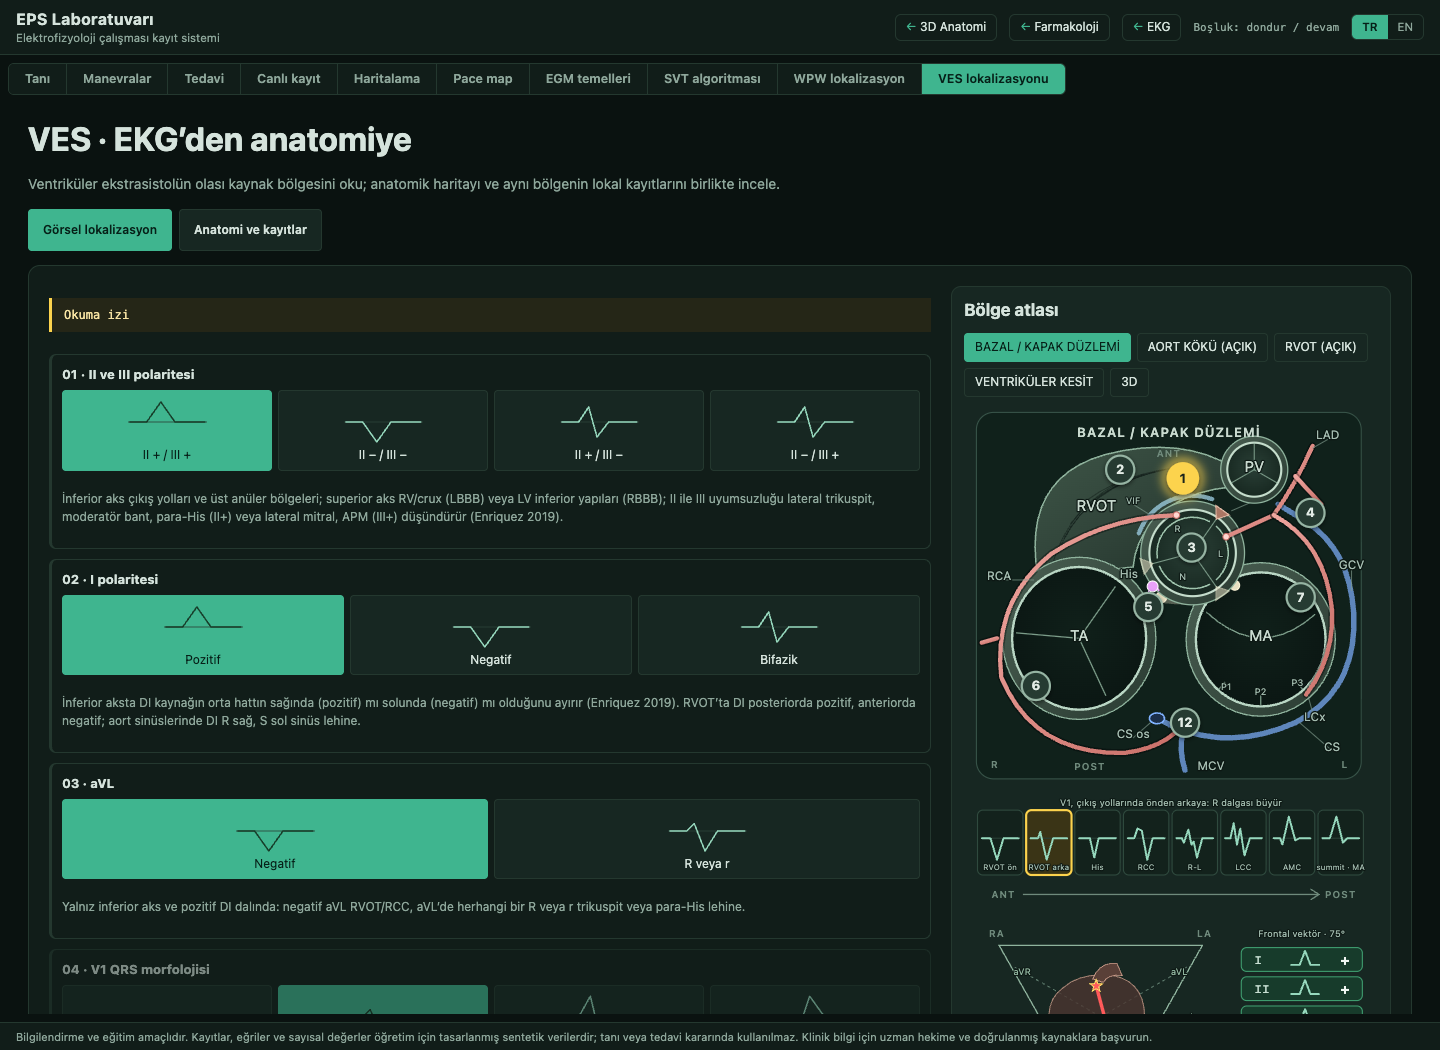
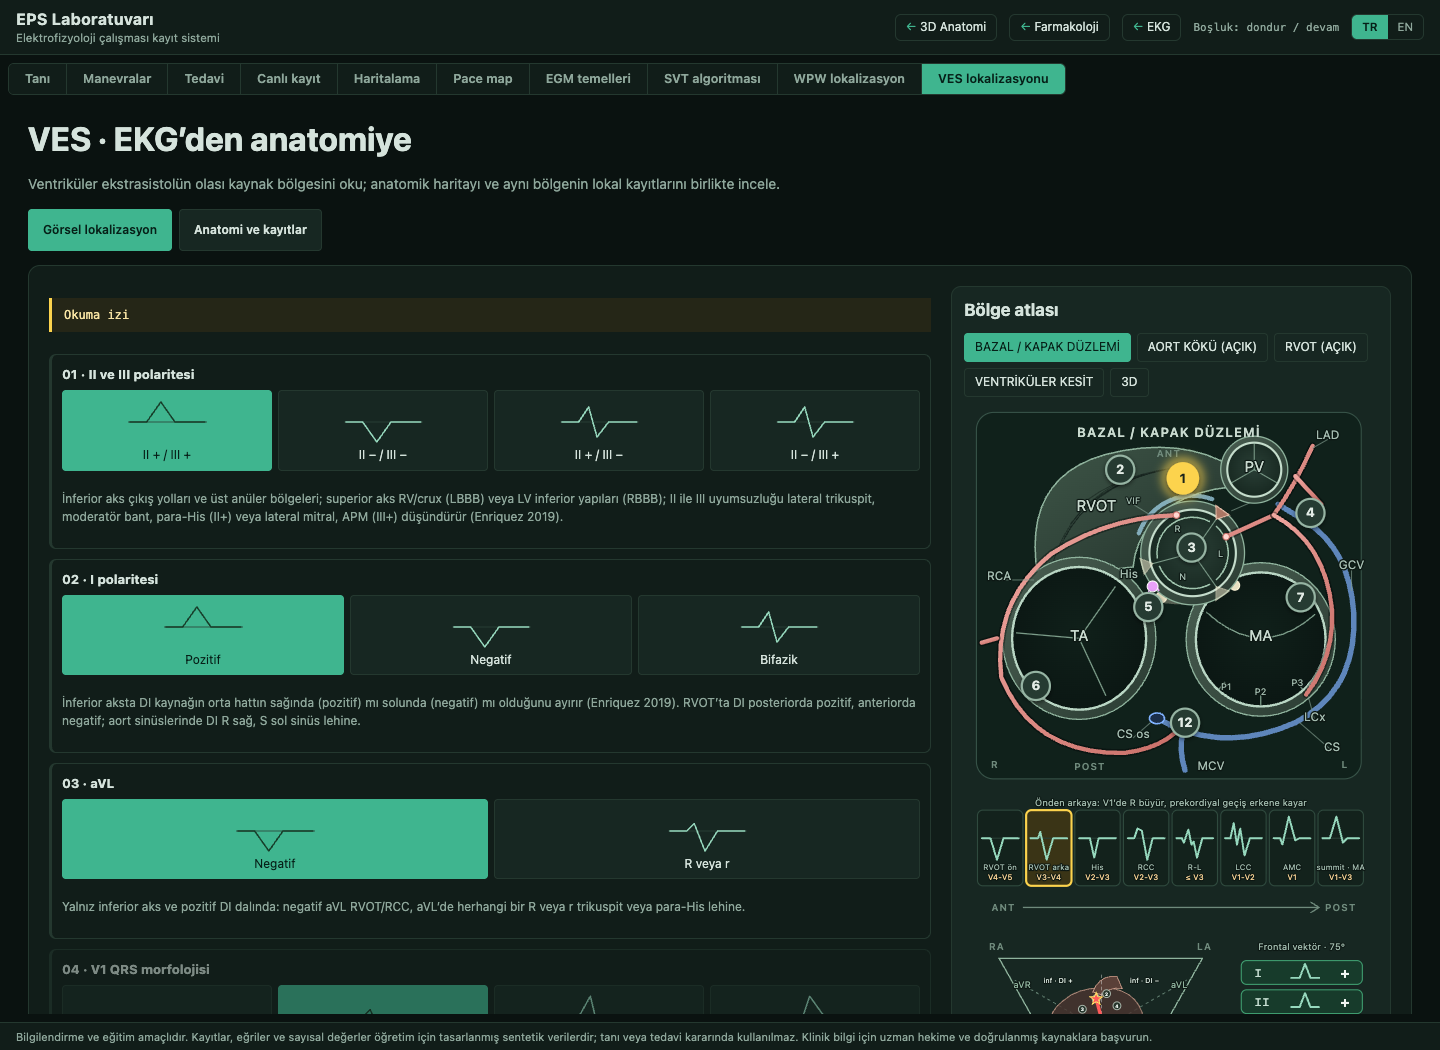
feat(eps): frontal quadrants and transition ranges in the VES atlas
From a user-supplied @ecgrhythms composite built on Enriquez et al.
2019 (tracings and panel annotations not reproduced):

- Frontal vector panel: midline and axis line over the heart with four
  quadrants (inferior axis with lead I positive or negative; superior
  axis with LBBB-like or RBBB-like V1) and all twelve examples as
  numbered dots. Example positions moved where needed so each sits in
  the quadrant of its own axis, lead I and V1 pattern (unit-tested).
- V1 strip: each station shows its precordial transition (RVOT free
  wall V4-V5, septum V3-V4, His V2-V3, RCC V2-V3, R-L V3 or earlier,
  LCC V1-V2, AMC V1, summit/MA V1-V3); title states both gradients.

Changed region(s): [[0.6875, 0.8229, 0.9375, 0.9752], [0.7188, 0.7619, 0.9062, 0.7924]]

diff --git a/src/eps/ves-loc-map.js b/src/eps/ves-loc-map.js
@@ -249,27 +249,28 @@ function rvotView(doc, g, uid, t) {
  * the R wave grows as the origin moves posteriorly and leftward. Stations with a teaching example select it.
  */
 export const V1_GRADIENT = Object.freeze([
-  { key: 'fw', d: 'M2 24 L10 24 L16 44 L22 24 L36 24', sites: ['rvot-free'] },
-  { key: 'ps', d: 'M2 24 L9 24 L11 18 L17 44 L23 24 L36 24', sites: ['rvot-septal'] },
-  { key: 'his', d: 'M2 24 L12 24 L16 42 L20 24 L36 24', sites: ['para-his'] },
-  { key: 'rcc', d: 'M2 24 L8 24 L11 15 L15 17 L20 44 L25 24 L36 24', sites: ['lvot-cusp'] },
-  { key: 'rl', d: 'M2 24 L7 24 L9 28 L13 16 L16 30 L18 27 L21 42 L26 24 L36 24', sites: ['lvot-cusp'] },
-  { key: 'lcc', d: 'M2 24 L7 24 L10 10 L13 30 L16 15 L20 40 L25 24 L36 24', sites: ['lvot-cusp'] },
-  { key: 'amc', d: 'M2 24 L8 24 L10 30 L16 4 L22 26 L26 24 L36 24', sites: [] },
-  { key: 'mitral', d: 'M2 24 L9 24 L15 4 L21 28 L25 24 L36 24', sites: ['lv-summit', 'mitral'] }
+  { key: 'fw', d: 'M2 24 L10 24 L16 44 L22 24 L36 24', transition: 'V4-V5', sites: ['rvot-free'] },
+  { key: 'ps', d: 'M2 24 L9 24 L11 18 L17 44 L23 24 L36 24', transition: 'V3-V4', sites: ['rvot-septal'] },
+  { key: 'his', d: 'M2 24 L12 24 L16 42 L20 24 L36 24', transition: 'V2-V3', sites: ['para-his'] },
+  { key: 'rcc', d: 'M2 24 L8 24 L11 15 L15 17 L20 44 L25 24 L36 24', transition: 'V2-V3', sites: ['lvot-cusp'] },
+  { key: 'rl', d: 'M2 24 L7 24 L9 28 L13 16 L16 30 L18 27 L21 42 L26 24 L36 24', transition: '≤ V3', sites: ['lvot-cusp'] },
+  { key: 'lcc', d: 'M2 24 L7 24 L10 10 L13 30 L16 15 L20 40 L25 24 L36 24', transition: 'V1-V2', sites: ['lvot-cusp'] },
+  { key: 'amc', d: 'M2 24 L8 24 L10 30 L16 4 L22 26 L26 24 L36 24', transition: 'V1', sites: [] },
+  { key: 'mitral', d: 'M2 24 L9 24 L15 4 L21 28 L25 24 L36 24', transition: 'V1-V3', sites: ['lv-summit', 'mitral'] }
 ]);
 export function renderV1Gradient(doc, svg, { t, selected, onSelect = null }) {
   svg.replaceChildren(s(doc, 'title', {}, t.v1Gradient));
-  svg.setAttribute('aria-label', t.v1Gradient); svg.setAttribute('viewBox', '0 0 370 100');
+  svg.setAttribute('aria-label', t.v1Gradient); svg.setAttribute('viewBox', '0 0 370 112');
   svg.append(s(doc, 'text', { x: 185, y: 10, class: 'ves-map-tiny' }, t.v1Gradient));
-  svg.append(s(doc, 'path', { d: 'M48 92 L322 92', class: 'ves-v1-axis' }), s(doc, 'path', { d: 'M314 87 L322 92 L314 97', class: 'ves-v1-axis' }));
+  svg.append(s(doc, 'path', { d: 'M48 104 L322 104', class: 'ves-v1-axis' }), s(doc, 'path', { d: 'M314 99 L322 104 L314 109', class: 'ves-v1-axis' }));
   V1_GRADIENT.forEach((station, i) => {
     const x0 = 6 + i * 45, on = station.sites.includes(selected), link = onSelect && station.sites.length;
     const g = s(doc, 'g', { transform: `translate(${x0} 16)`, 'data-ves-v1-station': i, 'data-active': on, ...(link ? { role: 'button', tabindex: 0, class: 'ves-v1-link', 'aria-label': `${t.v1Stations[i]}: ${t.sites[station.sites[0]].name}` } : {}) });
-    g.append(s(doc, 'rect', { x: 0, y: -2, width: 42, height: 60, rx: 5, class: 'ves-v1-card' }));
+    g.append(s(doc, 'rect', { x: 0, y: -2, width: 42, height: 70, rx: 5, class: 'ves-v1-card' }));
     g.append(s(doc, 'line', { x1: 3, y1: 24, x2: 39, y2: 24, class: 'ves-grid' }));
     g.append(s(doc, 'path', { d: station.d, transform: 'translate(2 0)', class: 'ves-trace ves-v1-trace' }));
     g.append(s(doc, 'text', { x: 21, y: 53, class: 'ves-map-tiny ves-v1-label' }, t.v1Stations[i]));
+    g.append(s(doc, 'text', { x: 21, y: 63, class: 'ves-map-tiny ves-v1-transition', 'data-ves-v1-transition': station.transition }, station.transition));
     if (link) {
       const go = () => onSelect(station.sites[0]);
       g.addEventListener('click', go);
@@ -277,7 +278,7 @@ export function renderV1Gradient(doc, svg, { t, selected, onSelect = null }) {
     }
     svg.append(g);
   });
-  svg.append(s(doc, 'text', { x: 30, y: 95, class: 'ves-map-axis' }, t.v1Ant), s(doc, 'text', { x: 342, y: 95, class: 'ves-map-axis' }, t.v1Post));
+  svg.append(s(doc, 'text', { x: 30, y: 107, class: 'ves-map-axis' }, t.v1Ant), s(doc, 'text', { x: 342, y: 107, class: 'ves-map-axis' }, t.v1Post));
 }
 
 /**
@@ -312,9 +313,14 @@ function v1PrincipleOverlay(doc, g, t) {
  * frontal heart silhouette, the example's origin and its QRS axis. Limb-lead polarities are the
  * projections of that axis, the same numbers that draw the 12-lead strip.
  */
-const FRONTAL_SITES = Object.freeze({
+// Frontal positions in the heart group's coordinates. The midline (x = FRONTAL_CROSS.x) splits
+// right-of-midline origins (lead I positive) from left ones (negative); the horizontal line
+// (y = FRONTAL_CROSS.y) splits basal origins (inferior axis) from inferior ones (superior axis), whose
+// right side gives LBBB-like (RV, crux) and left side RBBB-like (LV) patterns (after Enriquez 2019).
+export const FRONTAL_CROSS = Object.freeze({ x: 122, y: 112 });
+export const FRONTAL_SITES = Object.freeze({
   'rvot-septal': [116, 58], 'rvot-free': [128, 52], 'lvot-cusp': [100, 70], 'lv-summit': [140, 66], 'para-his': [90, 92],
-  tricuspid: [70, 124], mitral: [152, 86], 'papillary-pm': [120, 144], 'papillary-al': [154, 122], fascicle: [110, 136], moderator: [88, 136], crux: [102, 156]
+  tricuspid: [70, 124], mitral: [152, 86], 'papillary-pm': [134, 146], 'papillary-al': [156, 102], fascicle: [128, 134], moderator: [88, 136], crux: [104, 156]
 });
 export const leadPolarity = (axis, lead) => { const c = Math.cos((axis - LIMB_LEAD_ANGLES[lead]) * Math.PI / 180); return c > .1 ? '+' : c < -.1 ? '−' : '±'; };
 export function renderFrontalVector(doc, svg, { t, selected, axis }) {
@@ -333,6 +339,14 @@ export function renderFrontalVector(doc, svg, { t, selected, axis }) {
   heart.append(s(doc, 'path', { d: 'M78 60 Q98 42 136 46 Q172 54 172 94 Q170 134 142 164 Q120 178 100 162 Q70 136 62 102 Q58 74 78 60 Z', class: 'ves-frontal-heart' }));
   heart.append(s(doc, 'path', { d: 'M112 50 Q120 30 140 32 L146 46 Q130 44 124 54 Z', class: 'ves-frontal-rvot' }));
   label(doc, heart, 92, 126, 'RV', 'ves-map-tiny'); label(doc, heart, 146, 120, 'LV', 'ves-map-tiny');
+  // Midline and the inferior/superior axis line, with the four reading quadrants.
+  heart.append(s(doc, 'line', { x1: FRONTAL_CROSS.x, y1: 30, x2: FRONTAL_CROSS.x, y2: 180, class: 'ves-frontal-cross' }), s(doc, 'line', { x1: 54, y1: FRONTAL_CROSS.y, x2: 182, y2: FRONTAL_CROSS.y, class: 'ves-frontal-cross' }));
+  t.frontalQuadrants.forEach((text, i) => label(doc, heart, [72, 172, 70, 174][i], [40, 40, 176, 176][i], text, 'ves-map-tiny ves-frontal-quadrant'));
+  // Every example as a faint numbered dot; the selected one gets the star and vector below.
+  for (const region of VES_REGIONS) {
+    const [x, y] = FRONTAL_SITES[region.id];
+    heart.append(s(doc, 'circle', { cx: x, cy: y, r: 4.5, class: 'ves-frontal-dot', 'data-ves-frontal-site': region.id }), s(doc, 'text', { x, y: y + 2.2, class: 'ves-frontal-dot-label' }, region.number));
+  }
   // Lead axes through the centre with their positive ends.
   for (const lead of Object.keys(LIMB_LEAD_ANGLES)) {
     const a = LIMB_LEAD_ANGLES[lead] * Math.PI / 180, [x, y] = [C[0] + 92 * Math.cos(a), C[1] + 92 * Math.sin(a)];

diff --git a/src/eps/ves-loc-text.js b/src/eps/ves-loc-text.js
@@ -7,7 +7,8 @@ export const VES_TEXT = {
     nav: 'VES çalışma sayfaları', map: 'Bölge atlası', base: 'BAZAL / KAPAK DÜZLEMİ', root: 'AORT KÖKÜ (AÇIK)', rvot: 'RVOT (AÇIK)', chambers: 'VENTRİKÜLER KESİT',
     rvotColumns: ['ant. serbest', 'post. serbest', 'post. septum', 'ant. septum'], rvotPa: 'PA · kapak üstü', rvotFree: 'SERBEST DUVAR', rvotSeptum: 'SEPTUM',
     rvotFreeCue: 'QRS ≥ 140 ms, inferiorda çentik,', rvotFreeCue2: 'V3 R/S ≤ 1 (Dixit 2003)', rvotHisCue: 'His bölgesine doğru:', rvotHisCue2: 'V1 QS, III negatif (Park 2012)',
-    v1Gradient: 'V1, çıkış yollarında önden arkaya: R dalgası büyür', v1Stations: ['RVOT ön', 'RVOT arka', 'His', 'RCC', 'R-L', 'LCC', 'AMC', 'summit · MA'], v1Ant: 'ANT', v1Post: 'POST',
+    v1Gradient: 'Önden arkaya: V1’de R büyür, prekordiyal geçiş erkene kayar', v1Stations: ['RVOT ön', 'RVOT arka', 'His', 'RCC', 'R-L', 'LCC', 'AMC', 'summit · MA'], v1Ant: 'ANT', v1Post: 'POST',
+    frontalQuadrants: ['inf · DI +', 'inf · DI −', 'sup · LBBB', 'sup · RBBB'],
     frontal: 'Frontal vektör', frontalNote: 'Vektörün izdüşümü; ekstremite derivasyonlarındaki işaretler EKG ile aynıdır.',
     v1Principle: 'V1 ilkesi', v1PrincipleSites: ['TA lateral', 'bazal septum (RV)', 'MA lateral'], v1PrincipleLegend: 'V1’e yaklaşan aktivasyon R, uzaklaşan QS yazar',
     rootRing: 'sanal bazal halka', rootMembranous: 'membranöz septum', rootFascicle: 'aort altı LAF dalı', rootMitral: 'aorto-mitral perde',
@@ -68,7 +69,8 @@ export const VES_TEXT = {
     nav: 'PVC workbook pages', map: 'Region atlas', base: 'BASAL / VALVE PLANE', root: 'AORTIC ROOT (OPENED)', rvot: 'RVOT (OPENED)', chambers: 'VENTRICULAR CUTAWAY',
     rvotColumns: ['ant. free wall', 'post. free wall', 'post. septum', 'ant. septum'], rvotPa: 'PA · supravalvular', rvotFree: 'FREE WALL', rvotSeptum: 'SEPTUM',
     rvotFreeCue: 'QRS ≥ 140 ms, inferior notching,', rvotFreeCue2: 'V3 R/S ≤ 1 (Dixit 2003)', rvotHisCue: 'Towards the His region:', rvotHisCue2: 'V1 QS, negative III (Park 2012)',
-    v1Gradient: 'V1 across the outflow tracts, anterior to posterior: the R wave grows', v1Stations: ['RVOT ant.', 'RVOT post.', 'His', 'RCC', 'R-L', 'LCC', 'AMC', 'summit · MA'], v1Ant: 'ANT', v1Post: 'POST',
+    v1Gradient: 'Anterior to posterior: the V1 R wave grows, the transition moves earlier', v1Stations: ['RVOT ant.', 'RVOT post.', 'His', 'RCC', 'R-L', 'LCC', 'AMC', 'summit · MA'], v1Ant: 'ANT', v1Post: 'POST',
+    frontalQuadrants: ['inf · I +', 'inf · I −', 'sup · LBBB', 'sup · RBBB'],
     frontal: 'Frontal vector', frontalNote: 'Projection of the vector; the limb-lead signs match the ECG strip.',
     v1Principle: 'V1 principle', v1PrincipleSites: ['lateral TA', 'basal septum (RV)', 'lateral MA'], v1PrincipleLegend: 'Activation towards V1 writes an R, away from it a QS',
     rootRing: 'virtual basal ring', rootMembranous: 'membranous septum', rootFascicle: 'infra-aortic LAF branch', rootMitral: 'aorto-mitral curtain',

diff --git a/src/eps/ves-loc.css b/src/eps/ves-loc.css
@@ -115,6 +115,11 @@
 .ves-frontal-row { stroke-width: 1; }
 .ves-frontal-pos { fill: #173b2b; stroke: #3f9e70; } .ves-frontal-neg { fill: #3b1a1a; stroke: #b25c5c; } .ves-frontal-iso { fill: #2b2b1a; stroke: #9e9a52; }
 .ves-frontal-glyph { stroke-width: 1.8; }
+.ves-frontal-cross { stroke: #f1f7f3; stroke-width: 1; stroke-dasharray: 4 3; opacity: .55; }
+.ves-frontal-quadrant { fill: #d9e6dd; font-size: 8px; }
+.ves-frontal-dot { fill: #1f3329; stroke: #cfe3d6; stroke-width: 1; opacity: .85; }
+.ves-frontal-dot-label { fill: #eef5f0; font: bold 5.5px system-ui, sans-serif; text-anchor: middle; }
+.ves-v1-transition { fill: #f3cf92; font-size: 7.2px; }
 .ves-frontal-lead-label { fill: #8fb39d; }
 .ves-frontal-sign { fill: #f1f7f3; font: bold 13px system-ui, sans-serif; text-anchor: middle; }
 .ves-map-site { cursor: pointer; }

diff --git a/src/eps/ves-loc-panel.js b/src/eps/ves-loc-panel.js
@@ -45,7 +45,7 @@ export function createVesLocPanel(doc, { getLang = () => 'tr' } = {}) {
     const principleToggle = button({ 'data-ves-v1-principle': '', 'aria-pressed': 'false' }, () => { state.v1Principle = !state.v1Principle; render(); });
     viewRow.append(principleToggle);
     const svg = vesSvg(doc, '0 0 760 350', 'ves-map');
-    const gradient = vesSvg(doc, '0 0 370 100', 'ves-v1-gradient');
+    const gradient = vesSvg(doc, '0 0 370 112', 'ves-v1-gradient');
     const frontal = vesSvg(doc, '0 0 370 214', 'ves-frontal');
     // SVG elements have no `hidden` property; the wrapper div carries it.
     const frontalBox = el('div', 'ves-frontal-box'); frontalBox.append(frontal);

diff --git a/research/VES_VISUAL_WORKBOOK.md b/research/VES_VISUAL_WORKBOOK.md
@@ -14,6 +14,7 @@ Date: 2026-10-08. Scope: EPS educational workbook at `/eps/#/ves`, built within 
 - User-supplied teaching slide "RVOT VA: typical ECG vector" by M. Didenko (local image `17117603756903408163499278919714.jpg`) shows the Einthoven triangle over the heart with an RVOT origin and an inferiorly directed vector (II and III tall, lead I small). The atlas's "frontal vector" panel redraws this for every example: Einthoven triangle, frontal heart silhouette, the origin and an arrow at the example's own frontal axis (`vesFrontalAxis`), with the six limb-lead polarities. Because the limb leads are projections of that axis, the panel and the 12-lead strip agree by construction (unit-tested for every example and lead). The slide image is not reproduced.
 - [Enriquez, Baranchuk, Briceno, Saenz, Garcia, Heart Rhythm 2019;16:1538-1544](https://doi.org/10.1016/j.hrthm.2019.04.002), Figure 3 (user-supplied page image `17046415294555972155629260062588.jpg`): stepwise ECG approach to the site of origin of idiopathic VA. The workbook's region narrowing now follows it (`VES_STEPWISE` in `ves-loc-model.js`): axis (inferior, superior or II/III discordance), lead I (right or left of the midline), aVL (negative or any R/r, only on the inferior positive-I branch), V1 bundle-branch pattern, precordial transition (V1 for RBBB-like V1, V2, V3, V4 or later) and V6 R/S (superior RBBB-like and II-/III+ branches). Leaves name sites; sites with a teaching example (`VES_SITE_EXAMPLES`) are highlighted on the maps, the others (tricuspid septum, AMC, LAF, inferior and lateral mitral annulus, lateral tricuspid) are listed by name. A missing finding keeps every branch below it open. Morphology details in the figure (notched V1, pseudo-delta, qR, Rsr', narrow QRS) appear as site annotations, not as separate inputs.
 - User-supplied review figure "Typical PVC 12-lead ECG morphologies from common outflow tract sites" (Figure 2, AHA-format review; local image `16899237952986794790744302602267.jpg`; the publication could not be identified) orders outflow sites from anterior to posterior: RVOT free wall, pulmonary sinus cusps, posteroseptal RVOT, His, right coronary sinus, L/R junction, left coronary sinus, aorto-mitral continuity, LV summit, anterolateral mitral annulus. The V1 strip under the maps follows that order in eight stations (pulmonary cusps not modelled) with V1 shapes taken from cited sources rather than the figure's tracings: anterior RVOT QS and posterior RVOT small r (Asirvatham 2009), His QS (Park 2012), RCC wide small r and LCC multiphasic M/W, R-L qrS with a notch on the descending limb (John 2026), which [a 2017 BMC series](https://doi.org/10.1186/s12872-017-0561-y) also found in RVOT, LCC and RCC origins, AMC qR and summit/MA R (Enriquez 2019). Stations with a teaching example select it.
+- User-supplied composite by @ecgrhythms built from Enriquez et al. 2019 (local image `16823096415227165803200981696819.jpg`): an anterior heart with a midline and an axis line, the sites arranged in four quadrants (inferior axis with positive or negative lead I; superior axis with LBBB-like or RBBB-like V1), and an inset of precordial transition by site (RVOT free wall V4-V5, RVOT septum V3-V4, RCC V2-V3, LV summit V1-V3, LCC V1-V2, AMC V1, mitral valve V1). The frontal vector panel now draws that crosshair with the four quadrant labels and all twelve examples as numbered dots; example positions are unit-tested against their own axis, lead I and V1 pattern. The V1 strip shows each station's transition range (para-Hisian V2-V3 from Enriquez Figure 3, R-L junction V3 or earlier from John 2026). The composite's ECG tracings and per-panel annotations are not reproduced.
 - [Clinical validation of automatic local activation time annotation during focal PVC ablation, Europace 2018](https://academic.oup.com/europace/article/20/FI2/f171/4587592) informs the paired bipolar/unipolar teaching concept: local bipolar activity versus surface QRS onset; unipolar departing-wavefront QS versus initial positive deflection away from a focus; maximal negative unipolar slope as an activation surrogate. QS is supportive, not definitive.
 
 ## Model and provenance
